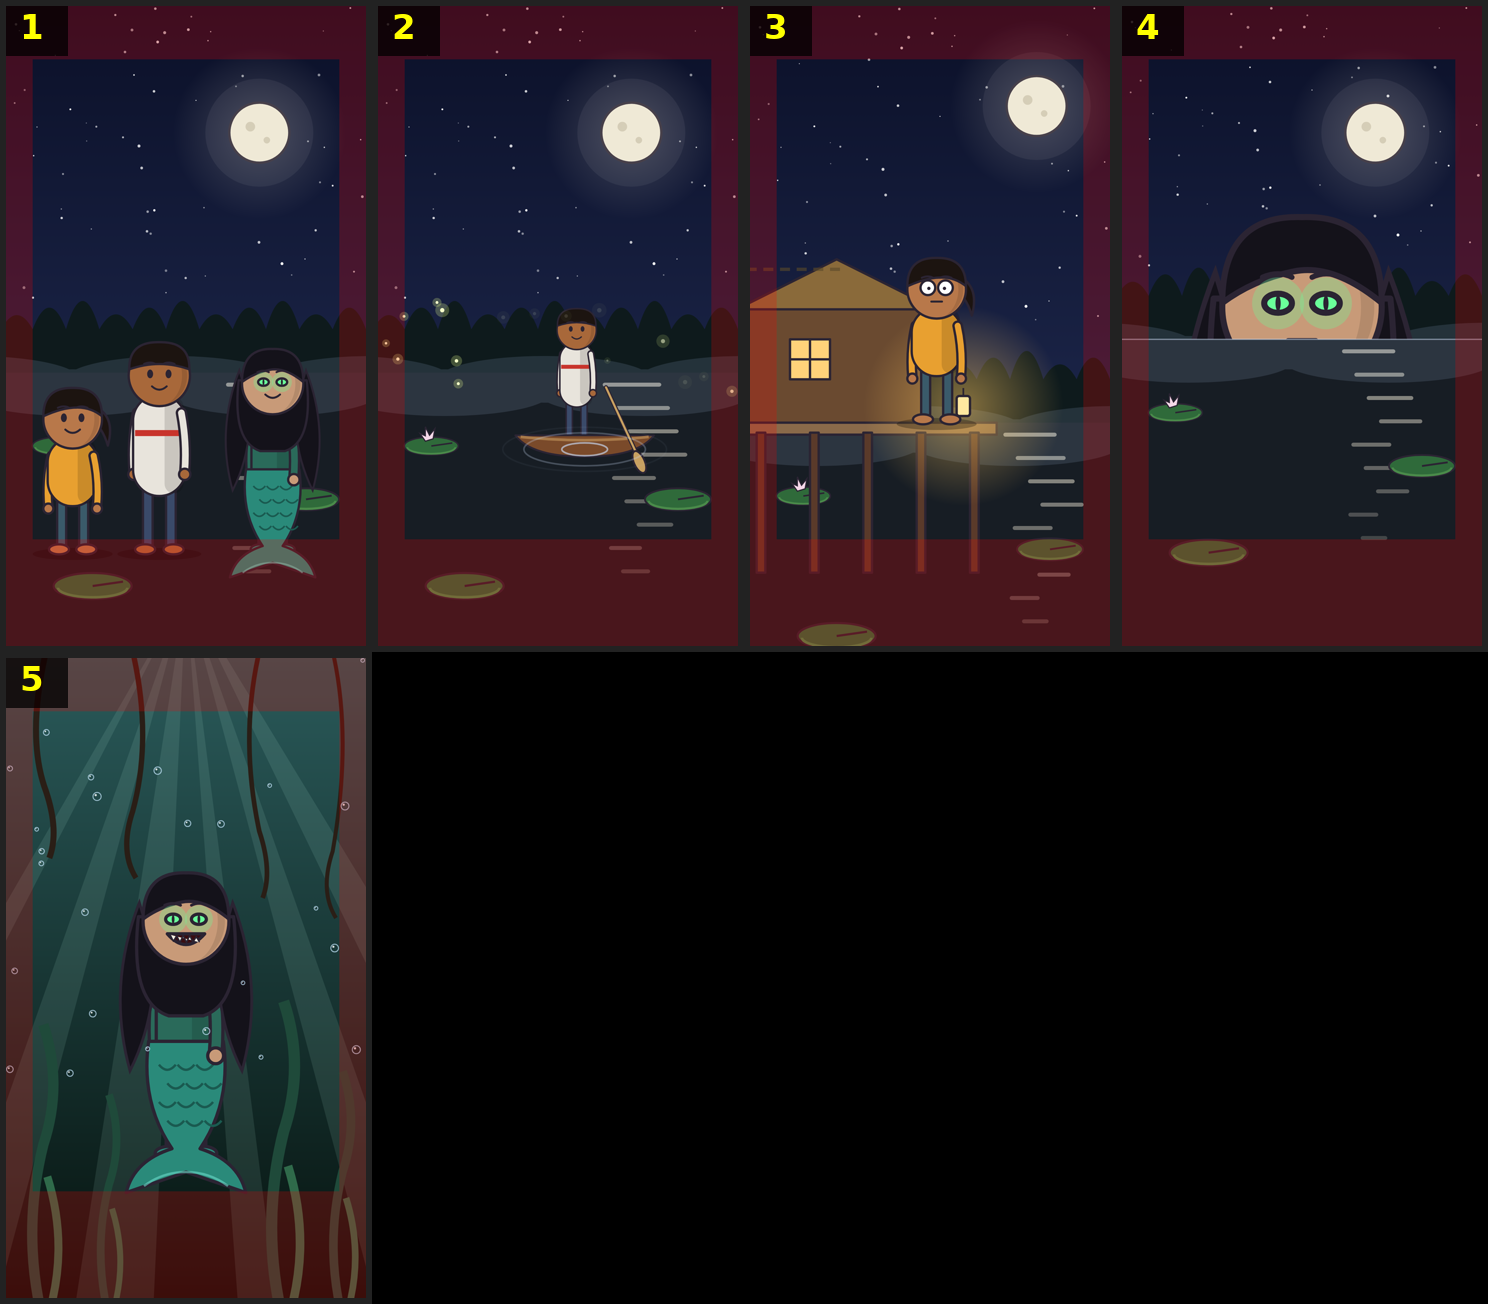
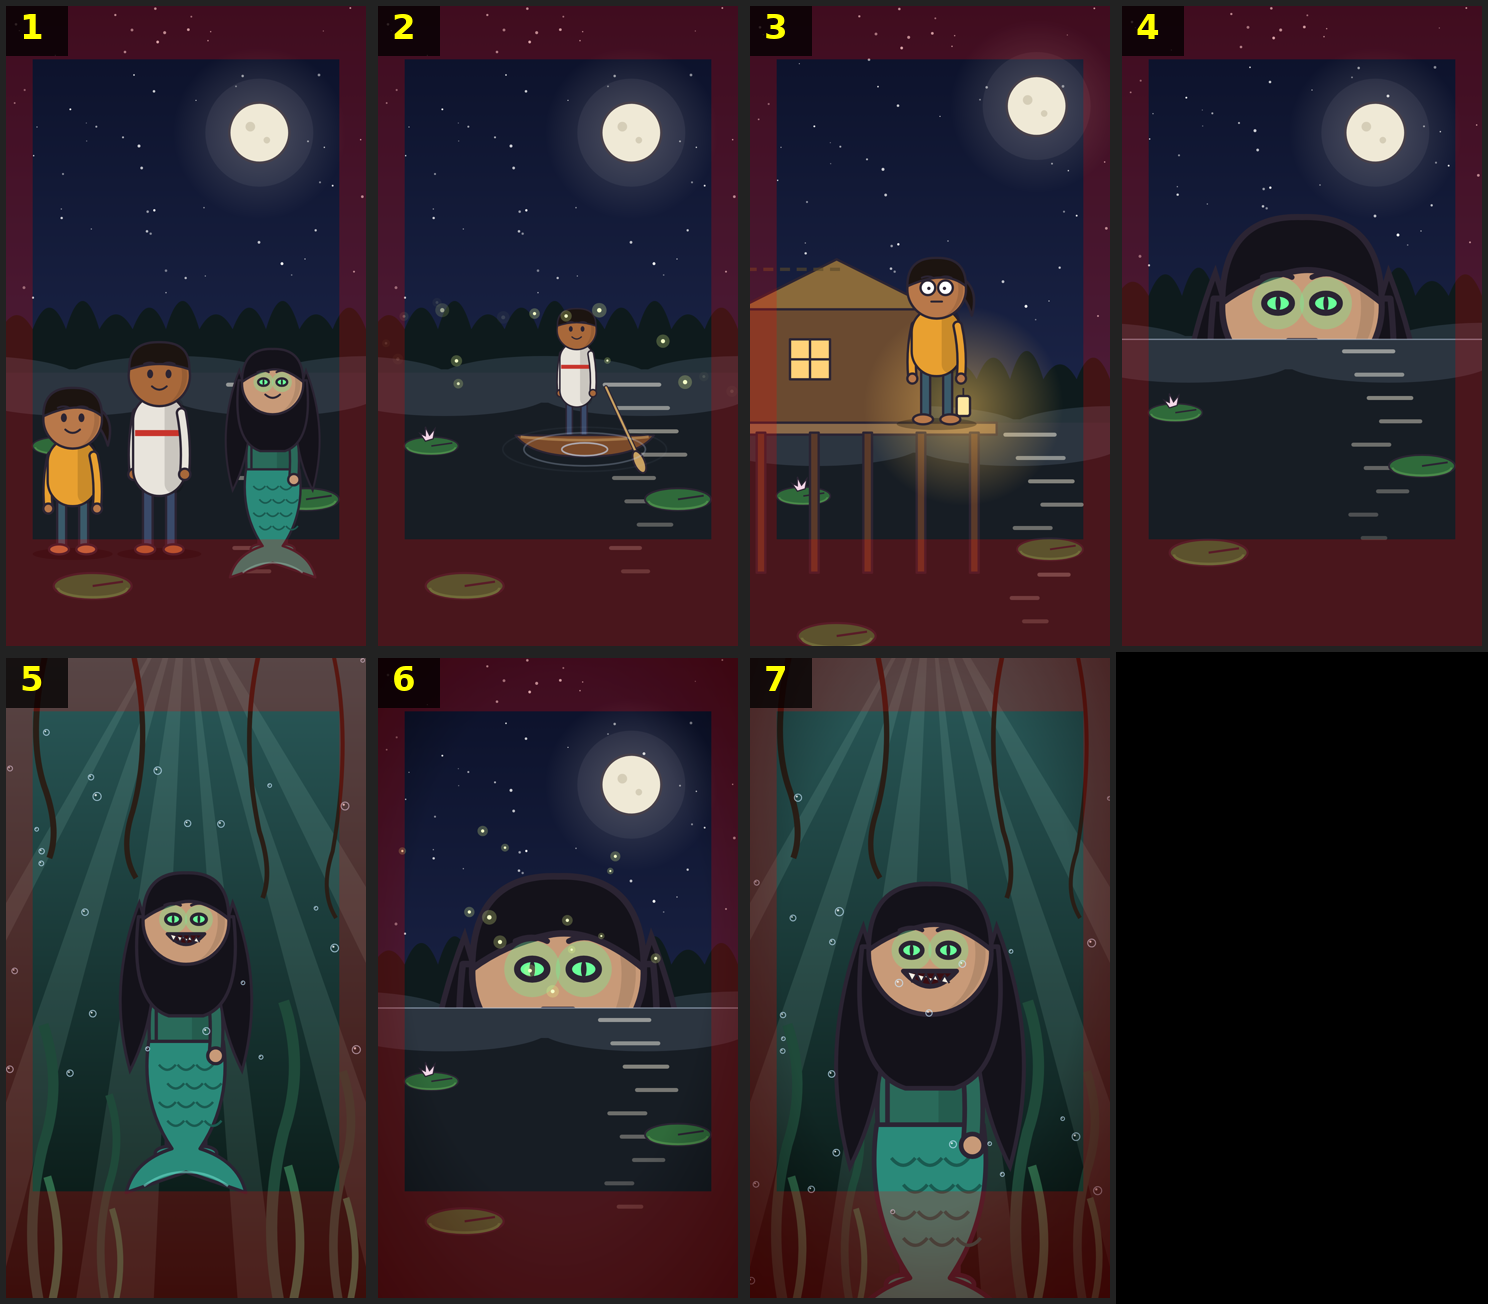
Lendas EP.10 Iara e EP.11 Mapinguari: render, capas
Claude-Session: https://claude.ai/code/session_01MUXnwG6fyaHSeYanEaGS8q

Changed region(s): [[0.2473, 0.4908, 0.7728, 1.0]]

diff --git a/videos/lenda-mapinguari/world.ts b/videos/lenda-mapinguari/world.ts
@@ -112,7 +112,7 @@ defineVisuals({
   'test-kitchen': { bg: '#4a3424', html: () => svg(`${maKitchen()}${maLeo(400, 1700, 1.6)}${maOld(700, 1700, 1.5, true)}`),
     anim(tl, s) { bzFace(tl, '#sc-test-kitchen #leo', s.t0, 'wide', 'flat'); bzFace(tl, '#sc-test-kitchen #raiold', s.t0, 'wide', 'flat'); bzPose(tl, '#sc-test-kitchen #raiold', s.t0, { aR: -110 }, 0.01); } },
   // covers (clean frames for core/cover.py)
-  'cover-a': { bg: '#060c14', html: () => svg(`${maJungle()}${maGiant('mapi', 540, 1900, 1.15)}${bzVignette(0.6)}`), anim(tl, s) { maMouth(tl, '#sc-cover-a #mapi', s.t0); } },
+  'cover-a': { bg: '#060c14', html: () => svg(`${maJungle()}${maGiant('mapi', 540, 2250, 1.15)}${bzVignette(0.6)}`), anim(tl, s) { maMouth(tl, '#sc-cover-a #mapi', s.t0); } },
   'cover-b': { bg: '#4a3424', html: () => svg(`${maKitchen()}${maLeo(430, 1800, 1.8)}${maOld(720, 1860, 1.6, true)}${bzVignette(0.6)}`),
     anim(tl, s) { bzFace(tl, '#sc-cover-b #leo', s.t0, 'wide', 'flat'); bzFace(tl, '#sc-cover-b #raiold', s.t0, 'wide', 'flat'); bzPose(tl, '#sc-cover-b #raiold', s.t0, { aR: -125 }, 0.01); } },
 });
